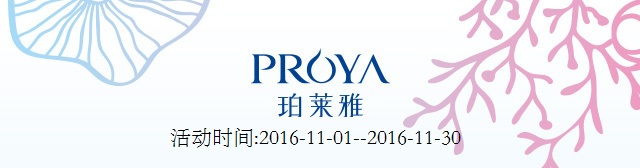
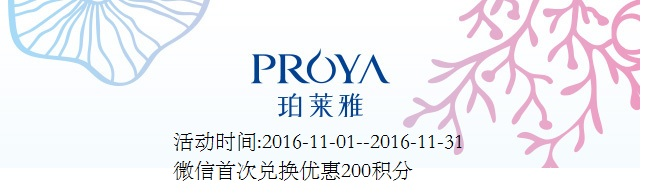
modify

Changed region(s): [[0.25, 0.0, 1.0, 1.0], [0.0, 0.0, 0.3438, 0.506]]

diff --git a/points-exchange/src/main/webapp/ShopCarList.html b/points-exchange/src/main/webapp/ShopCarList.html
@@ -461,7 +461,7 @@
                 if (isBenefit == 0) {// 不优惠
                     text = "本次兑换将扣除您" + $("#total_points").text() + "积分,确定兑换吗?";
                 } else {// 优惠200积分
-                    text = "本次兑换只扣除您" + ($("#total_points").text()-200) + "积分,确定兑换吗?";
+                    text = "微信首次兑换优惠200积分,本次兑换只扣除您" + ($("#total_points").text()-200) + "积分,确定兑换吗?";
                 }
 
                 var level = [];
